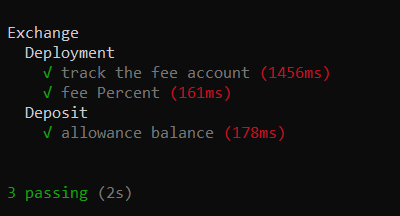
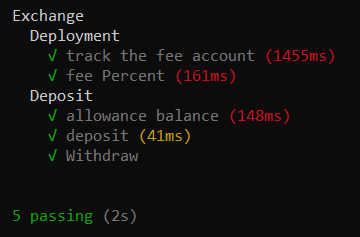
TDD: withdraw & deposit

diff --git a/dex-contract/test/Exchange.js b/dex-contract/test/Exchange.js
@@ -25,10 +25,10 @@ describe("Exchange", function () {
     const inrToken = await INRToken.deploy("INR Token", "INR");
     await inrToken.deployed();
 
-    await usdtToken.connect(deployer).transfer(account_1.address, 10);
-    await usdtToken.connect(deployer).transfer(account_2.address, 10);
-    await inrToken.connect(deployer).transfer(account_1.address, 10);
-    await inrToken.connect(deployer).transfer(account_2.address, 10);
+    await usdtToken.connect(deployer).transfer(account_1.address, ethers.utils.parseUnits("10", 18));
+    await usdtToken.connect(deployer).transfer(account_2.address, ethers.utils.parseUnits("10", 18));
+    await inrToken.connect(deployer).transfer(account_1.address, ethers.utils.parseUnits("10", 18));
+    await inrToken.connect(deployer).transfer(account_2.address, ethers.utils.parseUnits("10", 18));
 
 
     return [exchange, deployer, feeAccount, account_1, account_2, usdtToken, inrToken]
@@ -52,8 +52,8 @@ describe("Exchange", function () {
   })
 
   describe("Deposit", function () {
+    let exchange, deployer, feeAccount, account_1, account_2, usdtToken, inrToken ;
 
-    let exchange, deployer, feeAccount, account_1, account_2, usdtToken, inrToken;
 
     it("allowance balance", async () => {
       [exchange, deployer, feeAccount, account_1, account_2, usdtToken, inrToken] = await deployExchangeFixture()
@@ -61,9 +61,8 @@ describe("Exchange", function () {
       const txn = await usdtToken.connect(account_1).approve(exchange.address, ethers.utils.parseUnits("5", 18));
       await txn.wait();
       let balance = await usdtToken.allowance(account_1.address, exchange.address);
-      balance = ethers.utils.formatEther(balance);
+      balance = ethers.utils.formatUnits(balance.toString(),"ether");
       expect(balance).to.equal("5.0");
-
       balance = await inrToken.allowance(account_1.address, exchange.address);
       balance = ethers.utils.formatEther(balance);
       expect(balance).to.equal("0.0");
@@ -71,17 +70,23 @@ describe("Exchange", function () {
 
     it("deposit", async function () {
 
-      let txn = await exchange.connect(account_1).depositToken(usdtToken.address, 5);
+      let txn = await exchange.connect(account_1).depositToken(usdtToken.address, ethers.utils.parseEther("5"));
       await txn.wait();
 
       let balance = await exchange.getBalanceOf(usdtToken.address, account_1.address);
+      balance = ethers.utils.formatUnits(balance.toString(),"ether");
 
-      expect(balance).to.equal(ethers.BigNumber.from("5"))
+      expect(balance).to.equal("5.0")
     })
 
-    
+    it("Withdraw", async function () {
 
-
+      let txn = await exchange.connect(account_1).withdrawToken(usdtToken.address, ethers.utils.parseEther("5"));
+      await txn.wait();
+      let balance = await usdtToken.balanceOf(account_1.address);
+      balance = ethers.utils.formatEther(balance);
+      expect(balance).to.equal("10.0")
+    })
 
   })
 
